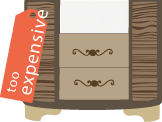
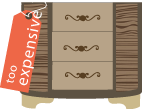
images on slide 4 added

diff --git a/static/css/style.css b/static/css/style.css
@@ -477,97 +477,207 @@ h1.projectinfo {
     color:rgb(255,255,255);
    /* border:1px green solid;*/
 }
+ul#column1,
+ul#column2,
+ul#column3,
+ul#column4,
+ul#column5 {
+   /* border:1px solid green;*/
+}
+.expensiveimage img:hover,
+.offensiveimage img:hover,
+.safeimage img:hover,
+.legalimage img:hover,
+.confusingimage img:hover,
+.bigimage img:hover,
+.smallimage img:hover,
+.dangerousimage img:hover,
+.offbrandimage img:hover,
+.funnyimage img:hover,
+.riskyimage img:hover,
+.otherimage img:hover {
+    cursor:pointer;
+}
 /******************************* COLUMN 1 ****************************************/
 ul#column1 {
     position:absolute;
     display:block;
     width:15%;
     height:100%;
-    border:1px solid green;
+}
+#column1 li#ex,
+#column1 li#of {
+   /* border:1px solid blue;   */
 }
 #column1 li#ex {
     position:absolute;
     bottom:0;
     z-index:3;
-    width:100%;
-    height:29%;
-    border:1px solid blue;   
 }
 #column1 li#of {
     position:absolute;
+    bottom:28%;
     right:0;
-    bottom:29%;
     z-index:3;
-    width:73%;
-    height: 19%;
-    border: 1px solid blue;
 }
-.expensiveimage {
+.expensiveimage,
+.offensiveimage {
     max-width:100%;
-    border:1px solid red;
+   /* border:1px solid red;*/
 }
 .expensiveimage img,
 .offensiveimage img {
     max-width:100%;
 }
-.expensiveimage img:hover,
-.offensiveimage img:hover,
-.safeimage img:hover,
-.legalimage img:hover,
-.confusingimage img:hover {
-    cursor:pointer;
-}
-.offensiveimage {
-    max-width:100%;
-    position:absolute;
-    right:0;
-    border:1px solid red;
-}
+
 /******************************* COLUMN 2 ****************************************/
 ul#column2 {
     position:absolute;
     display:block;
-    left:15%;
-    width:20%;
+    left:16%;
+    width:16%;
     height:100%;
-    border:1px solid green;
 }
 #column2 li#sfe,
 #column2 li#cnf,
 #column2 li#leg {
-    border:1px red solid;
+  /*  border:1px blue solid;*/
 }
-
 #column2 li#leg {
     position:absolute;
     z-index:3;
     bottom:0;
-    max-width:100%;
-    border:1px solid blue;
-}
-#column2 li#leg img{
-    max-width:100%;
 }
 #column2 li#cnf {
     position:absolute;
     z-index:3;
     bottom:30%;
-    border:1px solid blue;
-}
-#column2 li#cnf img{
-    max-width:100%;
+    left:5%;
 }
 #column2 li#sfe {
     position:absolute;
     z-index:3;
-    max-width:100%;
-    bottom:60%;
-    border:1px solid blue;
+    bottom:58%;
+    left:5%;
 }
-#column2 li#sfe img{
+.legalimage,
+.safeimage,
+.confusingimage {
+    max-width:100%;
+  /*  border:1px solid red;*/
+}
+#column2 li#leg img,
+#column2 li#sfe img,
+#column2 li#cnf img {
     max-width:100%;
 }
-/******************************* COLUMN 2 ****************************************/
+/******************************* COLUMN 3 ****************************************/
+ul#column3 {
+    position:absolute;
+    display:block;
+    left:33%;
+    width:26%;
+    height:100%;
+}
+#column3 li#bg,
+#column3 li#ob,
+#column3 li#sm,
+#column3 li#dg{
+  /*  border:1px blue solid;*/
+}
+#column3 li#bg {
+    position:absolute;
+    z-index:3;
+    bottom:0;
+}
+#column3 li#ob {
+    position:absolute;
+    z-index:3;
+    bottom:50%;
+}
+#column3 li#dg {
+    position:absolute;
+    z-index:3;
+    bottom:50%;
+    right:0;
+}
+#column3 li#sm {
+    position:absolute;
+    z-index:3;
+    bottom:78%;
+    right:30%;
+}
+.bigimage,
+.smallimage,
+.dangerousimage,
+.offbrandimage {
+    max-width:100%;
+  /*  border:1px solid red;*/
+}
+#column3 li#bg img,
+#column3 li#sm img,
+#column3 li#ob img,
+#column3 li#dg img {
+    max-width:100%;
+}
+/******************************* COLUMN 4 ****************************************/
+ul#column4 {
+    position:absolute;
+    display:block;
+    left:60%;
+    width:23%;
+    height:100%;
+}
+#column4 li#fn,
+#column4 li#rk{
+ /*   border:1px blue solid;*/
+}
+
+#column4 li#rk{
+    position:absolute;
+    z-index:3;
+    bottom:0;
+}
+#column4 li#fn {
+    position:absolute;
+    z-index:3;
+    bottom:31%;
+    right:0;
+}
+.funnyimage,
+.riskyimage {
+    max-width:100%;
+  /*  border:1px solid red;*/
+}
+#column4 li#fn img,
+#column4 li#rk img {
+    max-width:100%;
+}
+/******************************* COLUMN 5 ****************************************/
+ul#column5 {
+    position:absolute;
+    display:block;
+    left:84%;
+    width:16%;
+    height:100%;
+}
+#column5 li#oth{
+  /*  border:1px blue solid;*/
+}
+#column5 li#oth {
+    position:absolute;
+    z-index:3;
+    bottom:0;
+    right:0;
+}
+.otherimage {
+    max-width:100%;
+  /*  border:1px solid red;*/
+}
+#column5 li#oth img {
+    max-width:100%;
+}
+/******************************* END COLUMNS ****************************************/
 
 input[type=checkbox] {
     display:none;

diff --git a/views/FavoriteFailures.html b/views/FavoriteFailures.html
@@ -122,16 +122,16 @@
 	</div>
 	<div class="wrapper" id="failureinfo">
 	    <ul id="column1">	
-		<li id="of">
-		    <input type="checkbox" class="failure" name="failure" value="offensive" id="offensive"/>
-		    <div class="offensiveimage">
-			<img src="images/slide3/offensive.png" alt="">
-		    </div>
-		</li>
 		<li id="ex">
 		    <input type="checkbox" class="failure" name="failure" value="expensive" id="expensive"/>
 		    <div class="expensiveimage">
 			<img src="images/slide3/expensive.png" alt="">
+		    </div>
+		</li>
+		<li id="of">
+		    <input type="checkbox" class="failure" name="failure" value="offensive" id="offensive"/>
+		    <div class="offensiveimage">
+			<img src="images/slide3/offensive.png" alt="">
 		    </div>
 		</li>
 	    </ul>
@@ -155,26 +155,53 @@
 		    </div>
 		</li>
 	    </ul>
-		<!-- <li>
+	    <ul id="column3">
+		<li id="ob">
 		    <input type="checkbox" class="failure" name="failure" value="offbrand" id="offbrand"/>
-		</li> 
-		<li>
-		    <input type="checkbox" class="failure" name="failure" value="big" id="big"/>
-		</li> 
-		<li>
+		    <div class="offbrandimage">
+			<img src="images/slide3/offbrand.png">
+		    </div>
+		</li>
+		<li id="sm">
 		    <input type="checkbox" class="failure" name="failure" value="small" id="small"/>
-		</li> 
-		<li>
+		    <div class="smallimage">
+			<img src="images/slide3/small.png">
+		    </div>
+		</li>
+		<li id="dg">
 		    <input type="checkbox" class="failure" name="failure" value="dangerous" id="dangerous"/>
+		    <div class="dangerousimage">
+			<img src="images/slide3/dangerous.png">
+		    </div>
 		</li>
-		<li>
+		<li id="bg">
+		    <input type="checkbox" class="failure" name="failure" value="big" id="big"/>
+		    <div class="bigimage">
+			<img src="images/slide3/big.png">
+		    </div>
+		</li>
+	    </ul>
+	    <ul id="column4">
+		<li id="fn">
 		    <input type="checkbox" class="failure" name="failure" value="funny" id="funny"/>
+		    <div class="funnyimage">
+			<img src="images/slide3/funny.png">
+		    </div>
 		</li>
-		<li><input type="checkbox" class="failure" name="failure" value="risky" id="risky"/>
-		</li> 
-		<li>
+		<li id="rk">
+		    <input type="checkbox" class="failure" name="failure" value="risky" id="risky"/>
+		    <div class="riskyimage">
+			<img src="images/slide3/risky.png">
+		    </div>
+		</li>
+	    </ul>
+	    <ul id="column5">
+		<li id="oth">
 		    <input type="checkbox" class="failure" name="failure" value="other" id="other"/>
-		</li>  -->
+		    <div class="otherimage">
+			<img src="images/slide3/other.png">
+		    </div>
+		</li>
 	    </ul>
 	</div>
 	<img src="images/slide3/page03a.png" alt="" class="transparency">

diff --git a/static/js/js.js b/static/js/js.js
@@ -1,12 +1,11 @@
 jQuery(document).ready(function ($) {
-    
 
     //initialise Stellar.js
     $(window).stellar();
 
     updateCountdown();
     $('.pitch').change(updateCountdown);
-    $('.pitch').keyup(updateCountdown);
+    $('.pitch').keyup(updateCountdown);    
     
     //Cache some variables
     var links = $('.navigation').find('li');
@@ -20,6 +19,7 @@ jQuery(document).ready(function ($) {
     var remaining = 140 - jQuery('.pitch').val().length;
     jQuery('.countdown').text(remaining);
     }
+    
 
     //Setup waypoints plugin
     slide.waypoint(function (event, direction) {
@@ -57,8 +57,6 @@ jQuery(document).ready(function ($) {
         }, 2000, 'easeInOutQuint');
     }
 
-
-
     //When the user clicks on the navigation links, get the data-slide attribute value of the link and pass that variable to the goToByScroll function
     links.click(function (e) {
         e.preventDefault();
@@ -73,6 +71,16 @@ jQuery(document).ready(function ($) {
         goToByScroll(dataslide);
 
     });
-
+    
+    //function to change color of logo from light to dark on slide 3
+    function changeLogoColor() {
+        var logo = $('.razorfishlogo');
+        if(dataslide === '2') {
+            $('.razorfishlogo').attr('src', 'images/rflogodark.png');
+        }
+        else {
+            $('.razorfishlogo').attr('src', 'images/rflogo.png');
+        }
+    }
 
 });

diff --git a/web.js b/web.js
@@ -8,7 +8,7 @@ var ejs = require('ejs'); //embedded javascript template engine
 var app = module.exports = express.createServer();
 var auth = require('http-auth'); //http authentication module
 //------------------------- DATABASE CONFIGURATION -----------------------------//
-//app.db = mongoose.connect(process.env.MONGOLAB_URI); //connect to the mongolabs database - local server uses .env file
+app.db = mongoose.connect(process.env.MONGOLAB_URI); //connect to the mongolabs database - local server uses .env file
 
 // Include models.js - this file includes the database schema and defines the models used
 require('./models').configureSchema(schema, mongoose);
